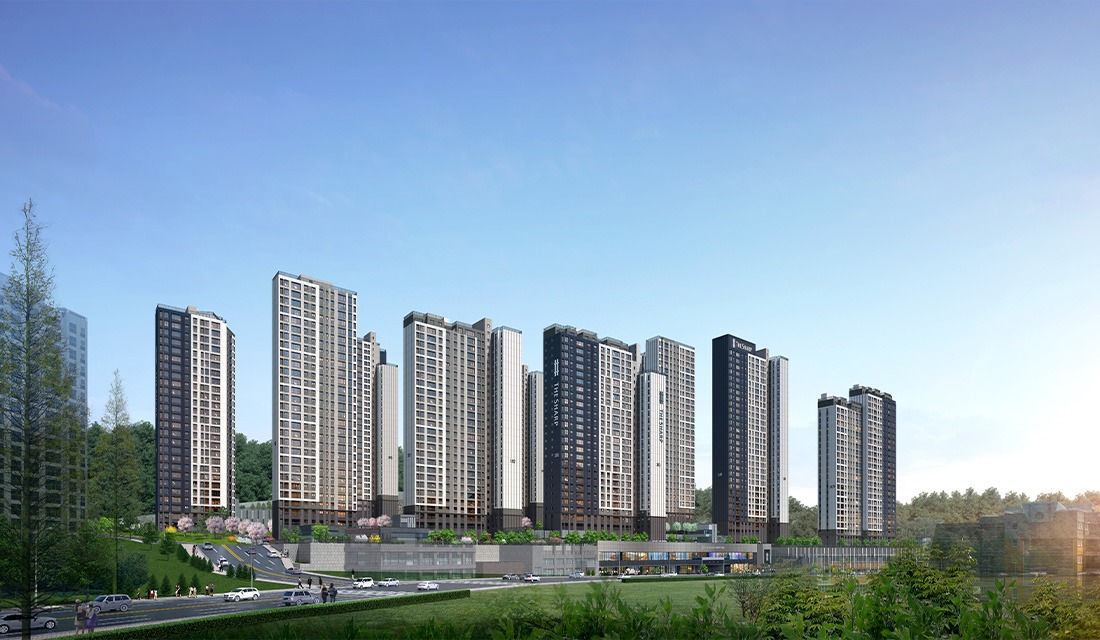
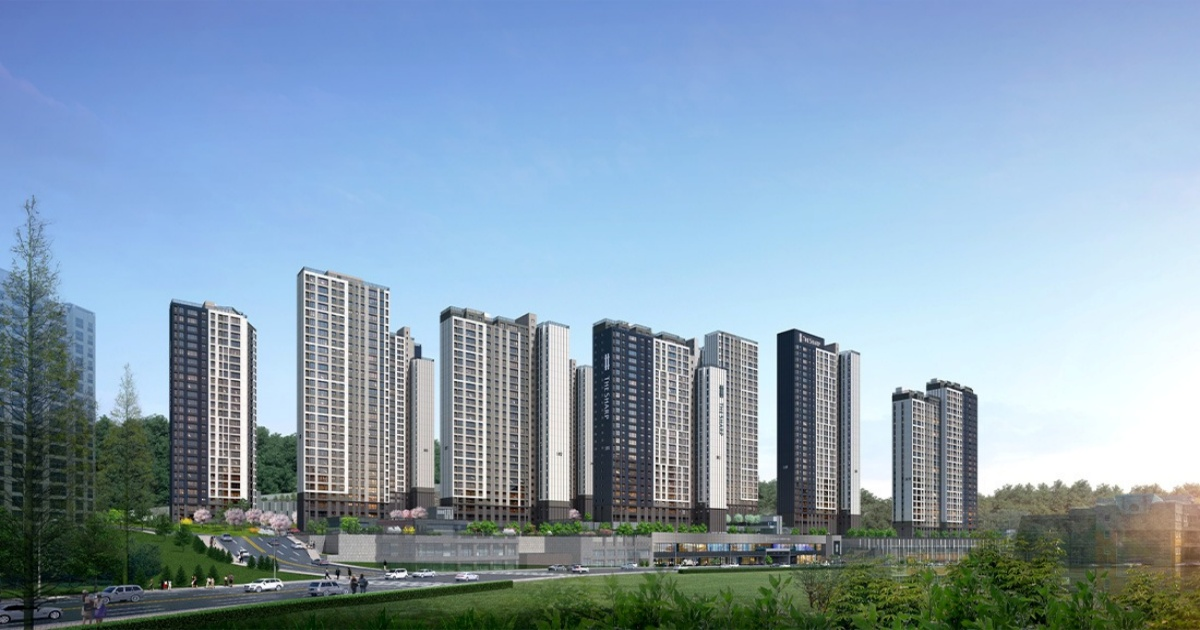
og썸네일 재수정

diff --git a/index.html b/index.html
@@ -5,12 +5,14 @@
 
 <head>
   <!--  og태그 -->
-    <meta property="og:image" content="https://your-netlify-site.netlify.app/images/og-image.jpg">
-<meta property="og:title" content="더샵 광양레이크센텀" />
-<meta property="og:description" content="광양의 중심에서 프리미엄을 누리다 - 더샵 광양레이크센텀 공식 안내" />
-<meta property="og:image" content="https://도메인/images/og-image.jpg" />
-<meta property="og:url" content="https://gythesharp.netlify.app//" />
-<meta property="og:type" content="website" />
+<head>
+  <meta property="og:title" content="더샵 광양레이크센텀" />
+  <meta property="og:description" content="광양 최고의 프리미엄, 더샵 광양레이크센텀" />
+  <meta property="og:image" content="https://gythesharp.netlify.app//images/og-image.jpg" />
+  <meta property="og:url" content="https://gythesharp.netlify.app/" />
+  <meta property="og:type" content="website" />
+</head>
+
 <!--파비콘 -->
 <link rel="icon" href="/favicon.ico" />
 <link rel="apple-touch-icon" sizes="180x180" href="/apple-touch-icon.png">
